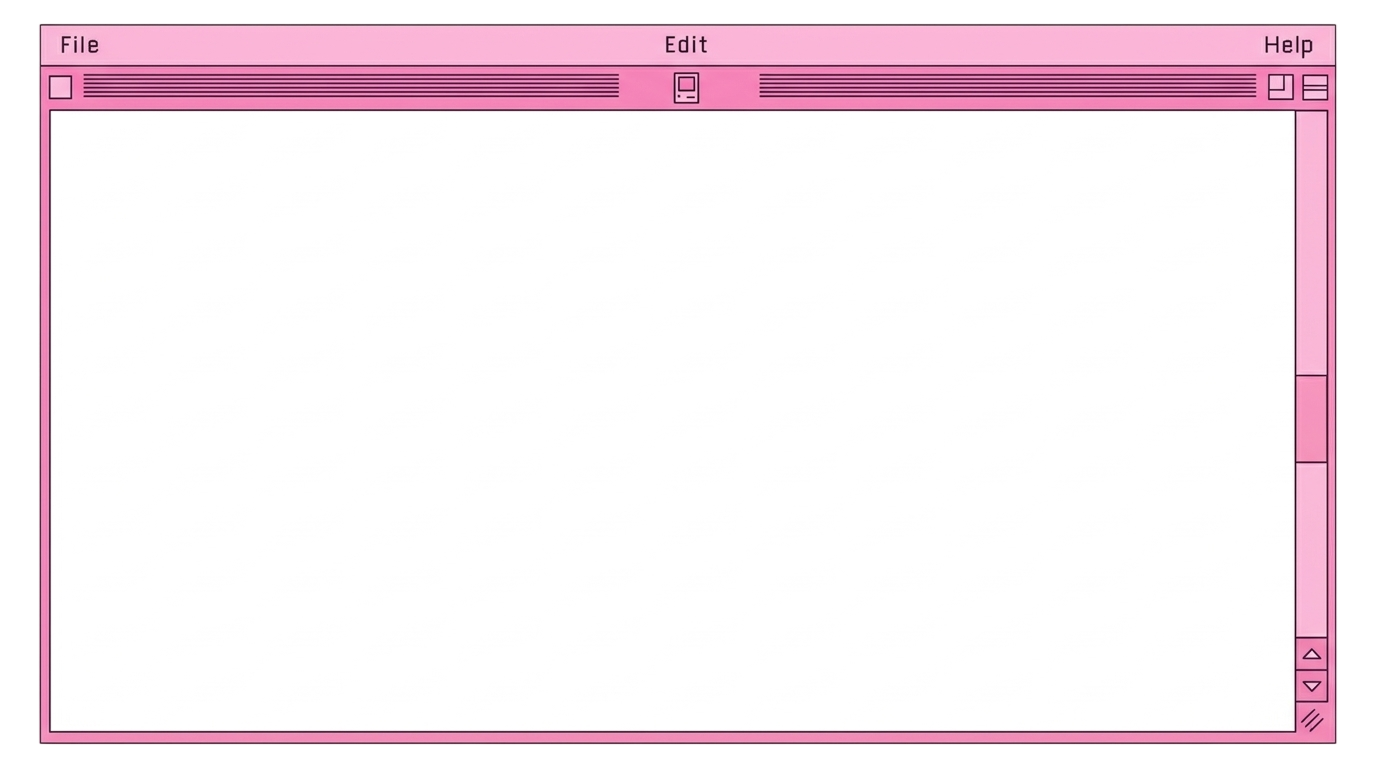
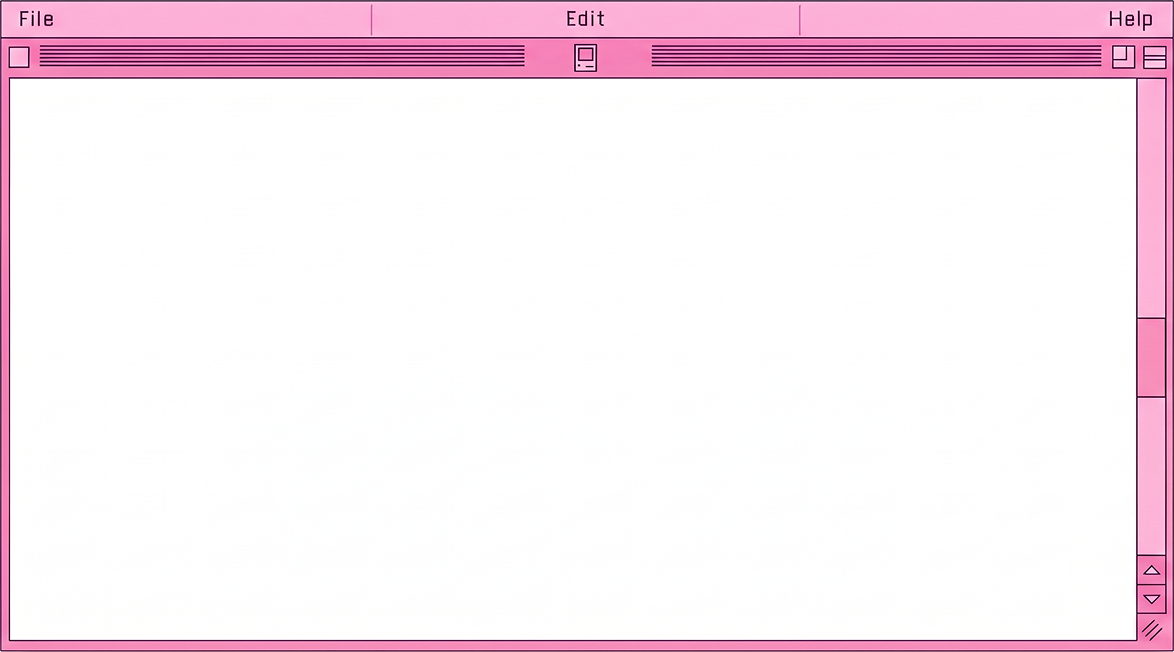
fix tape

Changed region(s): [[0.0, 0.0, 1.0, 1.0]]

diff --git a/app.js b/app.js
@@ -957,6 +957,9 @@ document.addEventListener("DOMContentLoaded", () => {
       e.preventDefault();
       //setActiveNav(navTape);
 
+      // Riporta la visuale in alto con scroll fluido
+      window.scrollTo({ top: 0, behavior: "smooth" });
+
       // Nasconde completamente la home
       if (homeContent) homeContent.style.display = "none";
 
@@ -992,7 +995,7 @@ document.addEventListener("DOMContentLoaded", () => {
                 </div>
 
                 <!-- Finestra inferiore che usa img/tape.png come sfondo -->
-                <div style="width: 1176px; height: 668px; background: url('img/tape.png') no-repeat center center; background-size: 100% 100%; border: none; position: relative;">
+                <div style="width: 889px; height: 557px; background: url('img/tape.png') no-repeat center center; background-size: 100% 100%; border: none; position: relative;">
                     <iframe 
                         src="https://www.youtube.com/embed/oqOTk7Dxmy8" 
                         title="YouTube video player" 
@@ -1000,19 +1003,27 @@ document.addEventListener("DOMContentLoaded", () => {
                         allow="accelerometer; autoplay; clipboard-write; encrypted-media; gyroscope; picture-in-picture; web-share" 
                         referrerpolicy="strict-origin-when-cross-origin" 
                         allowfullscreen 
-                        style="position: absolute; top: 96px; left: 42px; width: 1060px; height: 536px; border: none; border-radius: 4px;">
+                        style="position: absolute; top: 67px; left: 7px; width: 854px; height: 480px; border: none; border-radius: 4px;">
                     </iframe>
                 </div>`;
 
       container.insertBefore(tapeWrapper, footerElement);
 
+      function returnToHome(e) {
+        if (e) e.preventDefault();
+        showStandardLayout();
+        if (colMiddle) colMiddle.innerHTML = initialHomeContent;
+        window.scrollTo({ top: 0, behavior: "smooth" });
+      }
+
       const tapeBackBtn = document.getElementById("tape-back-btn");
       if (tapeBackBtn) {
-        tapeBackBtn.addEventListener("click", (e) => {
-          e.preventDefault();
-          showStandardLayout();
-          if (colMiddle) colMiddle.innerHTML = initialHomeContent;
-        });
+        tapeBackBtn.addEventListener("click", returnToHome);
+      }
+
+      const tapeBackBottomBtn = document.getElementById("tape-back-bottom-btn");
+      if (tapeBackBottomBtn) {
+        tapeBackBottomBtn.addEventListener("click", returnToHome);
       }
     });
   }

diff --git a/style.css b/style.css
@@ -1536,3 +1536,35 @@ header {
   transform: scale(1.12);
   background: #ffe4e1;
 }
+
+
+/* =========================================
+   TAPE BACK BUTTON (Y2K retro style)
+========================================= */
+.tape-back-btn {
+  display: inline-flex;
+  align-items: center;
+  gap: 8px;
+  background: #ffffff;
+  border: 2px solid var(--hot-pink);
+  border-radius: 20px;
+  padding: 4px 16px;
+  font-family: var(--font-main);
+  font-size: 22px;
+  line-height: 1;
+  color: #000;
+  cursor: url("img/pointer_hand.png"), pointer;
+  box-shadow:
+    inset -3px -3px 4px #ffcae4,
+    inset 4px 0px 4px #ffcae4;
+  transition: transform 0.2s ease, background 0.2s ease;
+}
+
+.tape-back-btn:hover {
+  transform: scale(1.05);
+  background: #ffe4e1;
+}
+
+.tape-back-btn:active {
+  transform: scale(0.97);
+}
